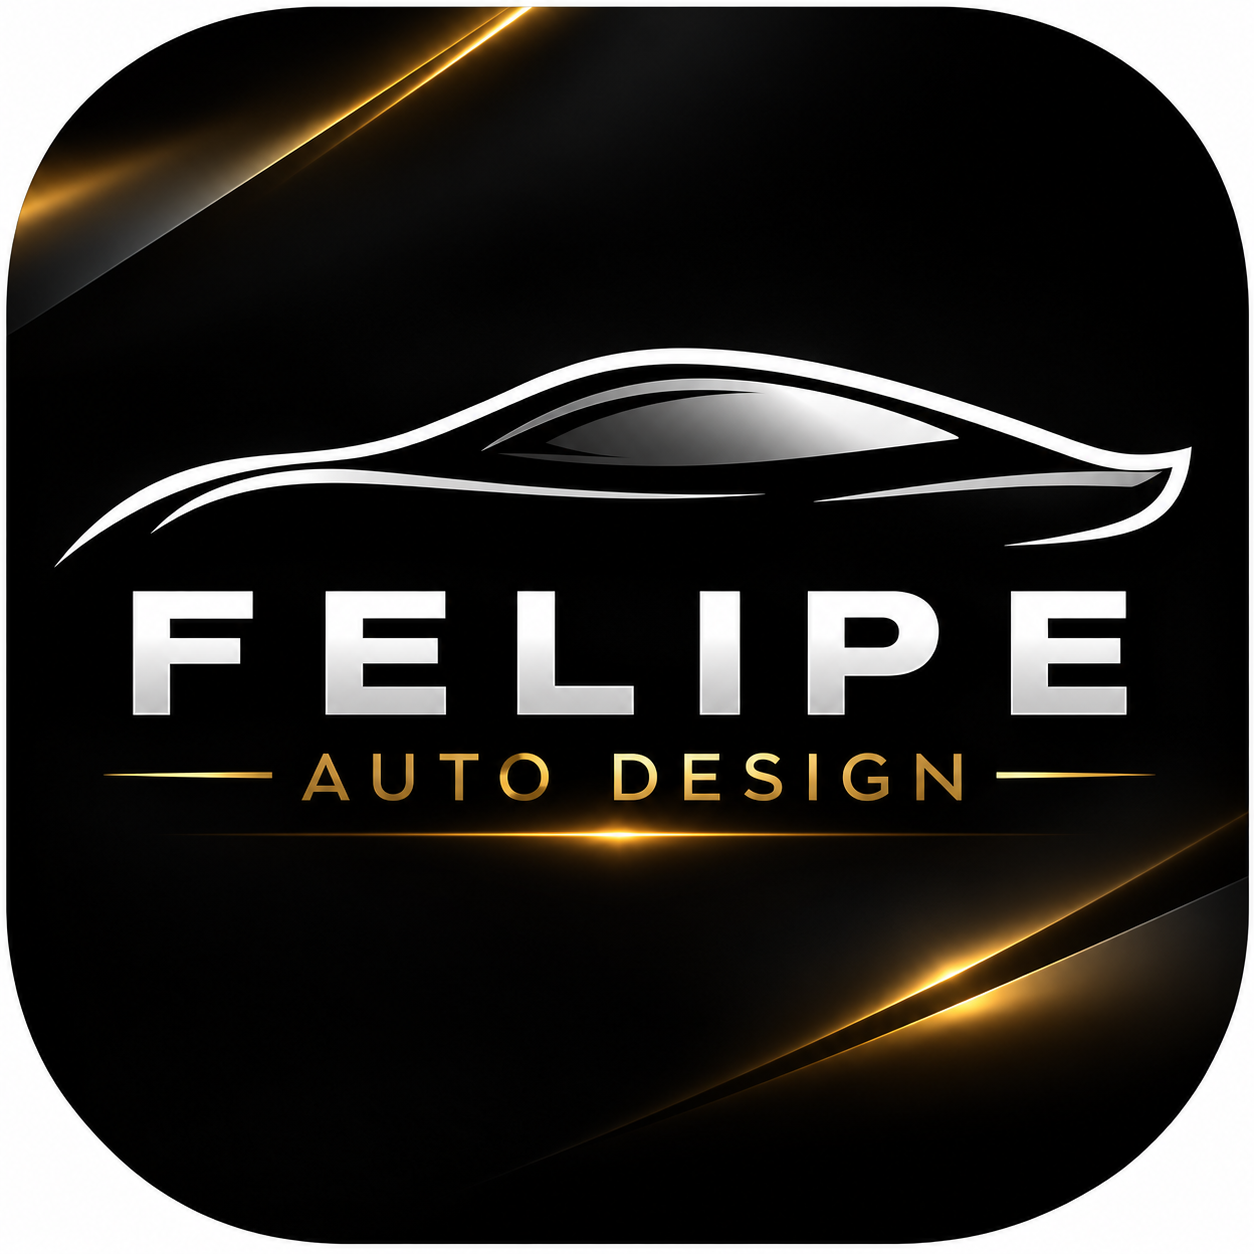
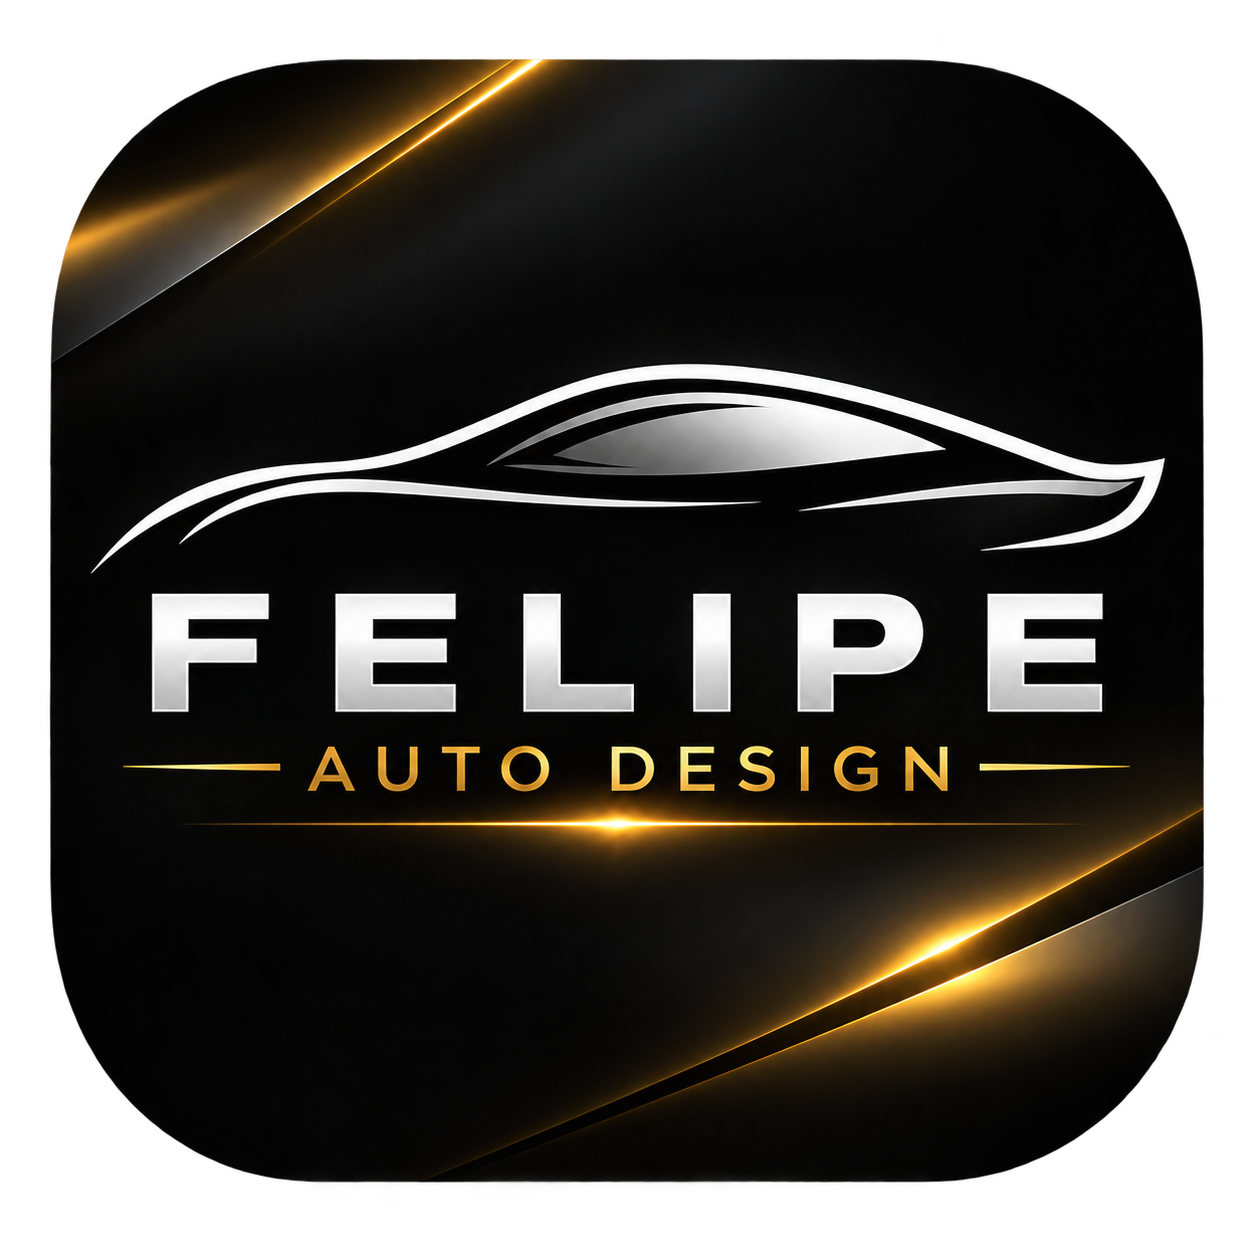
feat: novo visual

diff --git a/app/globals.css b/app/globals.css
@@ -117,13 +117,9 @@
 @media(max-width:520px){.store-grid{grid-template-columns:1fr}.store-floating-cart{left:14px;right:14px;bottom:14px;justify-content:center}.store-floating-cart b{margin-left:auto}.store-card h2{min-height:0}.store-promo-row{grid-template-columns:1fr}.store-product-head{align-items:flex-start;flex-direction:column}}
 
 /* Calendário nativo visível no tema escuro */
+input[type="date"], input[type="month"] { color-scheme: dark; }
 input[type="date"]::-webkit-calendar-picker-indicator,
-input[type="month"]::-webkit-calendar-picker-indicator {
-  cursor: pointer;
-  opacity: 1;
-  filter: invert(100%) sepia(0%) saturate(0%) hue-rotate(0deg)
-    brightness(200%) contrast(100%);
-}
+input[type="month"]::-webkit-calendar-picker-indicator { filter: invert(1); opacity: 1; cursor: pointer; }
 
 
 /* Produtos recolhíveis no painel */
@@ -150,4 +146,118 @@ input[type="month"]::-webkit-calendar-picker-indicator {
   .admin-workspace{display:block}
   .admin-tabs{display:flex;gap:8px;flex-wrap:nowrap;overflow-x:auto;padding-bottom:6px;margin-bottom:22px;scrollbar-width:thin}
   .admin-tabs button{white-space:nowrap;flex:0 0 auto}
+}
+
+/* Hero cinematográfico fiel à referência: arte transparente integrada ao fundo + parallax somente no scroll */
+.hero{overflow:hidden}
+.hero-grid{position:relative;z-index:2}
+.hero-copy{position:relative;z-index:3}
+.hero-parallax-visual{
+  --hero-scroll-y:0px;
+  --hero-scroll-r:0deg;
+  --hero-scroll-scale:1;
+  position:relative;
+  min-width:0;
+  display:flex;
+  align-items:center;
+  justify-content:flex-start;
+  overflow:visible;
+  pointer-events:none;
+  z-index:1;
+}
+.hero-parallax-visual>img{
+  display:block;
+  width:122%;
+  max-width:none;
+  height:auto;
+  object-fit:contain;
+  object-position:center;
+  user-select:none;
+  will-change:transform;
+  transform:translate3d(0,var(--hero-scroll-y),0) rotate(var(--hero-scroll-r)) scale(var(--hero-scroll-scale));
+  transform-origin:55% 50%;
+  filter:saturate(1.08) contrast(1.06) brightness(1.02);
+}
+
+@media (min-width:1101px){
+  .hero{min-height:720px}
+  .hero .container{width:min(calc(100% - 72px),1500px)}
+  .hero-grid{grid-template-columns:minmax(520px,.90fr) minmax(720px,1.35fr);gap:10px;align-items:center}
+  .hero-copy{max-width:650px}
+  .hero-parallax-visual{width:calc(100% + 120px);margin-left:-42px;margin-right:-78px;min-height:620px}
+  .hero-parallax-visual>img{width:126%}
+}
+@media (min-width:1450px){
+  .hero .container{width:min(calc(100% - 80px),1600px)}
+  .hero-grid{grid-template-columns:minmax(560px,.92fr) minmax(820px,1.38fr);gap:0}
+  .hero-parallax-visual{width:calc(100% + 160px);margin-left:-55px;margin-right:-105px;min-height:650px}
+  .hero-parallax-visual>img{width:129%}
+}
+@media(max-width:1100px){
+  .hero-parallax-visual{min-height:430px;justify-content:center}
+  .hero-parallax-visual>img{width:116%}
+}
+@media(max-width:900px){
+  .hero-parallax-visual{width:100%;margin:18px 0 0;min-height:0;overflow:visible;justify-content:center}
+  .hero-parallax-visual>img{width:112%;transform:translate3d(0,var(--hero-scroll-y),0) scale(1)}
+}
+@media(prefers-reduced-motion:reduce){
+  .hero-parallax-visual>img{transform:none!important}
+}
+
+
+/* Hero final: preto + dourado contínuo, visual cinematográfico integrado ao fundo */
+.hero{
+  background:
+    radial-gradient(circle at 76% 48%, rgba(205,145,35,.20) 0%, rgba(116,72,18,.11) 24%, transparent 46%),
+    radial-gradient(circle at 92% 42%, rgba(104,64,14,.13) 0%, transparent 36%),
+    linear-gradient(110deg,#050505 0%,#090807 54%,#0b0906 100%);
+}
+.hero:before{
+  content:"";
+  position:absolute;
+  inset:0;
+  pointer-events:none;
+  z-index:0;
+  background:
+    radial-gradient(ellipse at 66% 72%, rgba(178,112,24,.10), transparent 37%),
+    linear-gradient(90deg,rgba(0,0,0,.18),transparent 44%);
+}
+.hero-grid{z-index:2}
+.hero-parallax-visual{
+  overflow:visible;
+  isolation:isolate;
+}
+.hero-parallax-visual>img{
+  width:124%;
+  max-width:none;
+  mix-blend-mode:screen;
+  opacity:.99;
+  filter:saturate(1.03) contrast(1.04) brightness(.98);
+  -webkit-mask-image:linear-gradient(90deg,transparent 0%,rgba(0,0,0,.45) 7%,#000 19%,#000 100%);
+  mask-image:linear-gradient(90deg,transparent 0%,rgba(0,0,0,.45) 7%,#000 19%,#000 100%);
+}
+@media (min-width:1101px){
+  .hero{min-height:720px}
+  .hero .container{width:min(calc(100% - 72px),1540px)}
+  .hero-grid{grid-template-columns:minmax(500px,.92fr) minmax(760px,1.38fr);gap:8px}
+  .hero-copy{max-width:660px}
+  .hero-parallax-visual{width:calc(100% + 130px);margin-left:-36px;margin-right:-94px;min-height:620px}
+  .hero-parallax-visual>img{width:126%}
+}
+@media (min-width:1450px){
+  .hero .container{width:min(calc(100% - 86px),1640px)}
+  .hero-grid{grid-template-columns:minmax(540px,.94fr) minmax(860px,1.42fr);gap:0}
+  .hero-parallax-visual{width:calc(100% + 170px);margin-left:-52px;margin-right:-118px;min-height:650px}
+  .hero-parallax-visual>img{width:128%}
+}
+@media(max-width:1100px){
+  .hero-parallax-visual>img{width:116%;mix-blend-mode:screen}
+}
+@media(max-width:900px){
+  .hero-parallax-visual>img{
+    width:112%;
+    -webkit-mask-image:linear-gradient(90deg,transparent 0%,#000 14%,#000 86%,transparent 100%);
+    mask-image:linear-gradient(90deg,transparent 0%,#000 14%,#000 86%,transparent 100%);
+  }
 }

diff --git a/components/HeroInteractiveVisual.tsx b/components/HeroInteractiveVisual.tsx
@@ -1,0 +1,49 @@
+"use client";
+
+import { useEffect, useRef } from "react";
+
+export default function HeroInteractiveVisual() {
+  const ref = useRef<HTMLDivElement>(null);
+
+  useEffect(() => {
+    let raf = 0;
+
+    const update = () => {
+      raf = 0;
+      const element = ref.current;
+      if (!element) return;
+
+      const rect = element.getBoundingClientRect();
+      const viewport = window.innerHeight || 1;
+      const center = rect.top + rect.height / 2;
+      const progress = Math.max(-1, Math.min(1, (viewport / 2 - center) / viewport));
+
+      element.style.setProperty("--hero-scroll-y", `${(progress * 22).toFixed(2)}px`);
+      element.style.setProperty("--hero-scroll-r", `${(progress * 1.25).toFixed(2)}deg`);
+      element.style.setProperty("--hero-scroll-scale", `${(1.015 + Math.abs(progress) * 0.012).toFixed(4)}`);
+    };
+
+    const onScroll = () => {
+      if (!raf) raf = requestAnimationFrame(update);
+    };
+
+    update();
+    window.addEventListener("scroll", onScroll, { passive: true });
+    window.addEventListener("resize", onScroll);
+    return () => {
+      window.removeEventListener("scroll", onScroll);
+      window.removeEventListener("resize", onScroll);
+      if (raf) cancelAnimationFrame(raf);
+    };
+  }, []);
+
+  return (
+    <div ref={ref} className="hero-parallax-visual" aria-label="Felipe Auto Design - pintura automotiva">
+      <img
+        src="/hero-felipe-cinematic.png"
+        alt="Felipe Auto Design com pistola de pintura automotiva"
+        draggable={false}
+      />
+    </div>
+  );
+}

diff --git a/app/page.tsx b/app/page.tsx
@@ -1,5 +1,6 @@
 import Link from "next/link";
 import { ArrowRight, BadgeCheck, CarFront, Paintbrush, ShieldCheck, ShoppingBag, Sparkles, TimerReset, WandSparkles } from "lucide-react";
+import HeroInteractiveVisual from "../components/HeroInteractiveVisual";
 
 const services = [
   { icon: CarFront, title: "Funilaria", text: "Reparos de amassados, para-choques, peças e recuperação da carroceria com acabamento preciso." },
@@ -23,11 +24,7 @@ export default function Home() {
             </div>
             <div className="hero-points"><span><BadgeCheck size={18}/> Atendimento direto</span><span><TimerReset size={18}/> Agilidade</span><span><ShieldCheck size={18}/> Cuidado em cada detalhe</span></div>
           </div>
-          <div className="hero-visual" aria-label="Felipe Auto Design">
-            <div className="visual-glow" />
-            <img src="/logo-felipe-auto-design.jpg" alt="Logo Felipe Auto Design" />
-            <div className="spray-line" />
-          </div>
+          <HeroInteractiveVisual />
         </div>
       </section>
 
